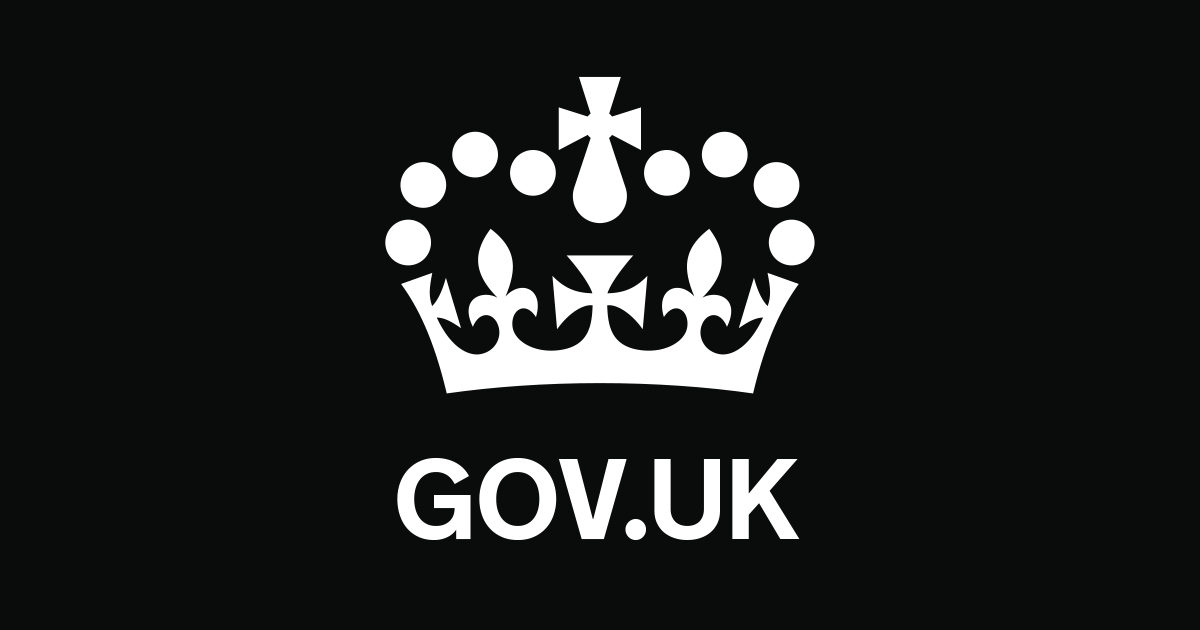
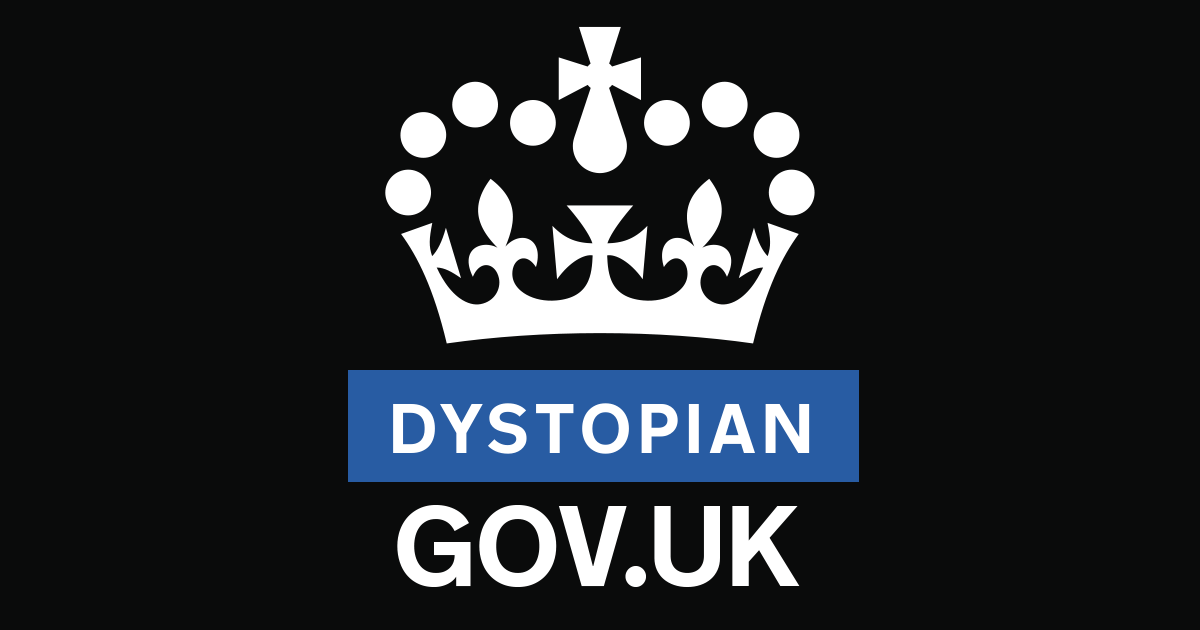
Add OpenGraph stuff

Changed region(s): [[0.2775, 0.0302, 0.74, 0.9349]]

diff --git a/index.html b/index.html
@@ -10,10 +10,6 @@
     <meta name="theme-color" content="#0b0c0c" /> 
     <meta http-equiv="X-UA-Compatible" content="IE=edge" />
     <link rel="shortcut icon" sizes="16x16 32x32 48x48" href="assets/images/favicon.ico" type="image/x-icon" />
-    <link rel="mask-icon" href="assets/images/govuk-mask-icon.svg" color="#0b0c0c"> 
-    <link rel="apple-touch-icon" sizes="180x180" href="assets/images/govuk-apple-touch-icon-180x180.png">
-    <link rel="apple-touch-icon" sizes="167x167" href="assets/images/govuk-apple-touch-icon-167x167.png">
-    <link rel="apple-touch-icon" sizes="152x152" href="assets/images/govuk-apple-touch-icon-152x152.png">
     <link rel="apple-touch-icon" href="assets/images/govuk-apple-touch-icon.png">
 
     <!--[if !IE 8]><!-->
@@ -26,6 +22,9 @@
     <link rel="stylesheet" href="stylesheets/custom.css">
 
     <meta property="og:image" content="assets/images/govuk-opengraph-image.png">
+    <meta property="og:title" content="Dystopian GOV.UK" />
+    <meta property="og:url" content="https://lilpete.me/dystopian.uk" />
+    <meta property="og:description" content="The GOV.UK of a dystopian Britain." />
   </head>
 
   <body class="govuk-template__body ">
